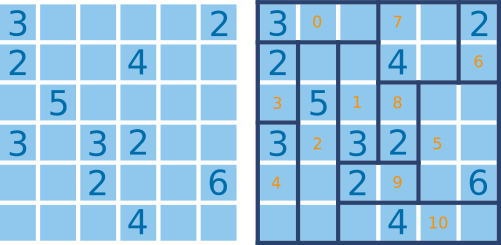
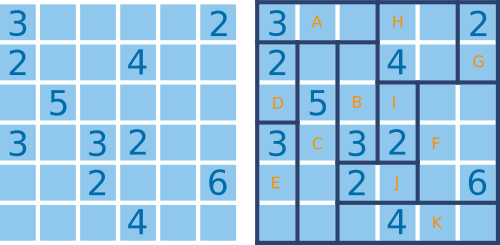
Label rectangles with letters instead of numbers

diff --git a/info/task_description.html b/info/task_description.html
@@ -35,9 +35,11 @@
  [0, 0, 2, 0, 0, 6],           (2, 3, 3, 3), (4, 2, 4, 3),
  [0, 0, 0, 4, 0, 0]]           (5, 2, 5, 5)}&nbsp;&nbsp;&nbsp;&nbsp;&nbsp;&nbsp;&nbsp;&nbsp;&nbsp;&nbsp;&nbsp;&nbsp;&nbsp;&nbsp;
 
-Rectangle <span style="color: #FA8F00">0</span> starts at (0, 0) and ends at (0, 2).
-Rectangle <span style="color: #FA8F00">1</span> starts at (1, 2) and ends at (3, 2).
+Rectangle <span style="color: #FA8F00">A</span> starts at (0, 0) and ends at (0, 2).
+Rectangle <span style="color: #FA8F00">B</span> starts at (1, 2) and ends at (3, 2).
+Rectangle <span style="color: #FA8F00">C</span> starts at (1, 1) and ends at (5, 1).
 ...
+Rectangle <span style="color: #FA8F00">K</span> starts at (5, 2) and ends at (5, 5).
 </pre>
 
 
